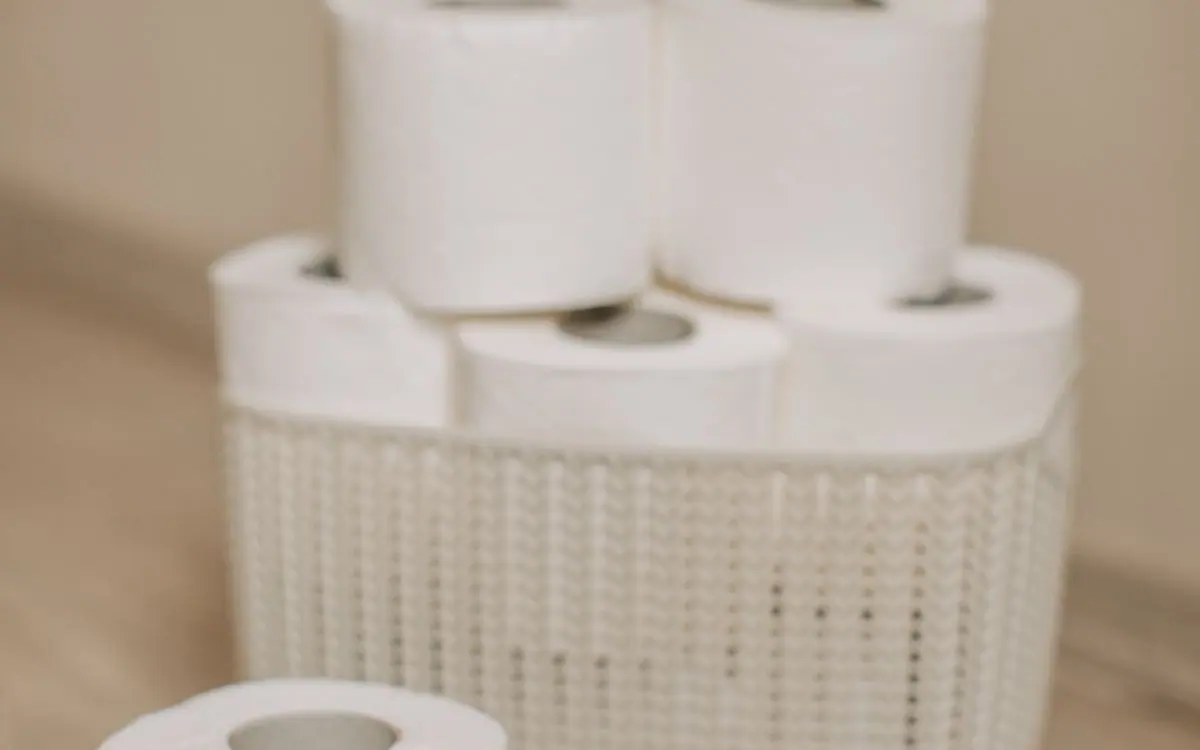
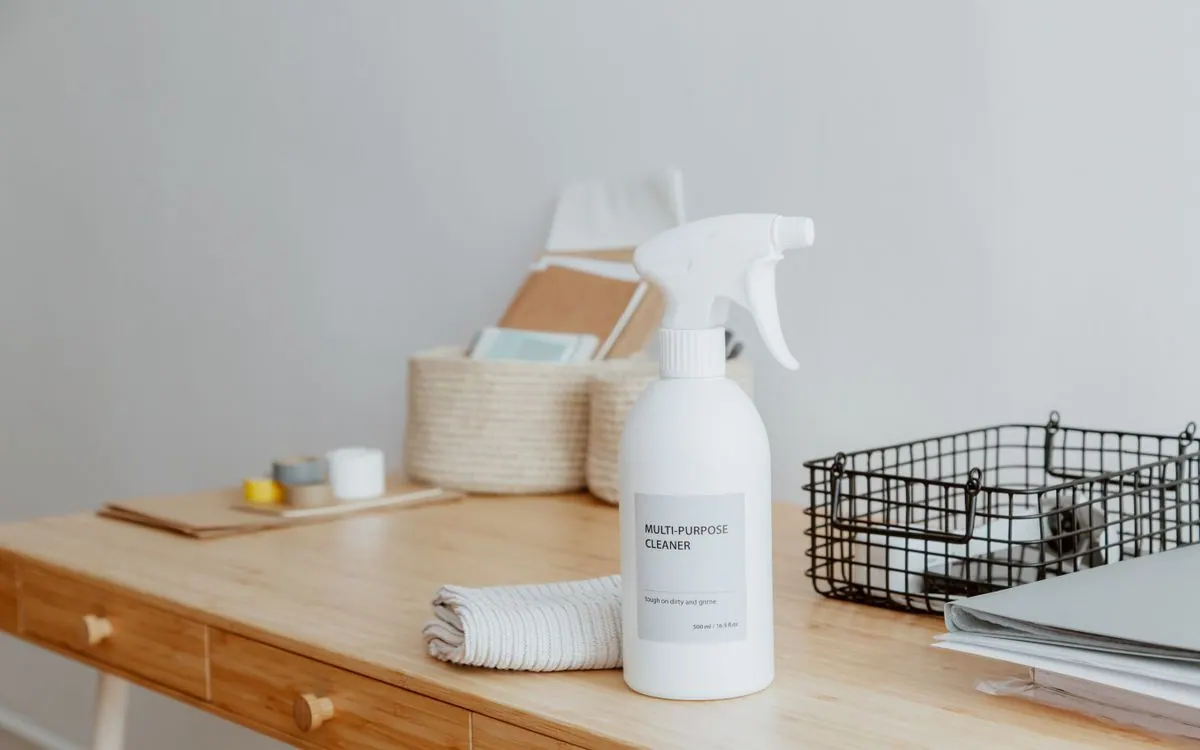
Apercu : photos plus claires et etalonnage allege
Trois photos etaient sombres ou floues. La premiere du carrousel
alimentaire n'etait meme pas celle que je croyais avoir mise : un hall
d'usine sombre, sans produit visible.

- alimentaire-1 : atelier clair, filet a cheveux et vetements de travail
  (luminance moyenne 0x6a -> 0x9a)
- entretien-1 : vaporisateur et chiffons, lumineux et net, a la place de
  rouleaux de papier flous et domestiques
- entretien-2 : entretien de plancher en cours, a la place d'un
  assouplissant textile grand public
- Mon voile bleu en fondu assombrissait l'ensemble : opacite divisee par
  deux, luminosite relevee, degrade du bas resserre sur les pastilles

diff --git a/apercu.html b/apercu.html
@@ -134,7 +134,7 @@
   .v2-slides img.active { opacity: 1; }
 
   .v2-carousel-scrim { position: absolute; inset: 0; pointer-events: none;
-    background: linear-gradient(180deg, rgba(10,22,40,.12) 0%, rgba(10,22,40,0) 42%, rgba(10,22,40,.55) 100%); }
+    background: linear-gradient(180deg, rgba(10,22,40,0) 0%, rgba(10,22,40,0) 62%, rgba(10,22,40,.5) 100%); }
 
   .v2-dots { position: absolute; left: 20px; bottom: 16px; display: flex; gap: 7px; }
   .v2-dots button { width: 22px; height: 4px; border-radius: 99px; border: 0; cursor: pointer;
@@ -161,9 +161,9 @@
   .v2-visual::after { display: none; }
 
   /* étalonnage commun : neuf photos de neuf photographes doivent se tenir */
-  .v2-slides img { filter: saturate(.82) contrast(1.07) brightness(1.02); }
+  .v2-slides img { filter: saturate(.9) contrast(1.03) brightness(1.06); }
   .v2-carousel::after { content: ""; position: absolute; inset: 0; z-index: 1; pointer-events: none;
-    background: linear-gradient(158deg, rgba(0,80,136,.22) 0%, rgba(10,22,40,.05) 55%, rgba(10,22,40,.18) 100%);
+    background: linear-gradient(158deg, rgba(0,80,136,.10) 0%, rgba(10,22,40,.02) 55%, rgba(10,22,40,.08) 100%);
     mix-blend-mode: multiply; }
   .v2-carousel-scrim { z-index: 2; }
   .v2-dots { z-index: 3; left: 22px; bottom: 18px; }
@@ -409,7 +409,7 @@
       <div class="v2-visual reveal">
         <div class="v2-carousel" data-intervalle="3200">
           <div class="v2-slides">
-            <img src="/images/secteurs/alimentaire-1.webp" alt="Employé en filet à cheveux emballant des produits frais" width="1200" height="750" class="active">
+            <img src="/images/secteurs/alimentaire-1.webp" alt="Employée en filet à cheveux et vêtements de protection à son poste" width="1200" height="750" class="active">
             <img src="/images/secteurs/alimentaire-2.webp" alt="Main gantée manipulant des aliments en cuisine professionnelle" width="1200" height="750" loading="lazy">
             <img src="/images/secteurs/alimentaire-3.webp" alt="Employé en filet à cheveux devant des plateaux emballés" width="1200" height="750" loading="lazy">
           </div>
@@ -469,8 +469,8 @@
       <div class="v2-visual reveal">
         <div class="v2-carousel" data-intervalle="3200">
           <div class="v2-slides">
-            <img src="/images/secteurs/entretien-1.webp" alt="Rouleaux de papier hygiénique" width="1200" height="750" class="active">
-            <img src="/images/secteurs/entretien-2.webp" alt="Produits nettoyants et vaporisateurs" width="1200" height="750" loading="lazy">
+            <img src="/images/secteurs/entretien-1.webp" alt="Vaporisateur nettoyant et chiffons d'entretien" width="1200" height="750" class="active">
+            <img src="/images/secteurs/entretien-2.webp" alt="Entretien de plancher avec affiche de prudence" width="1200" height="750" loading="lazy">
             <img src="/images/secteurs/entretien-3.webp" alt="Boîte de carton et fournitures d'emballage" width="1200" height="750" loading="lazy">
           </div>
           <div class="v2-carousel-scrim"></div>
